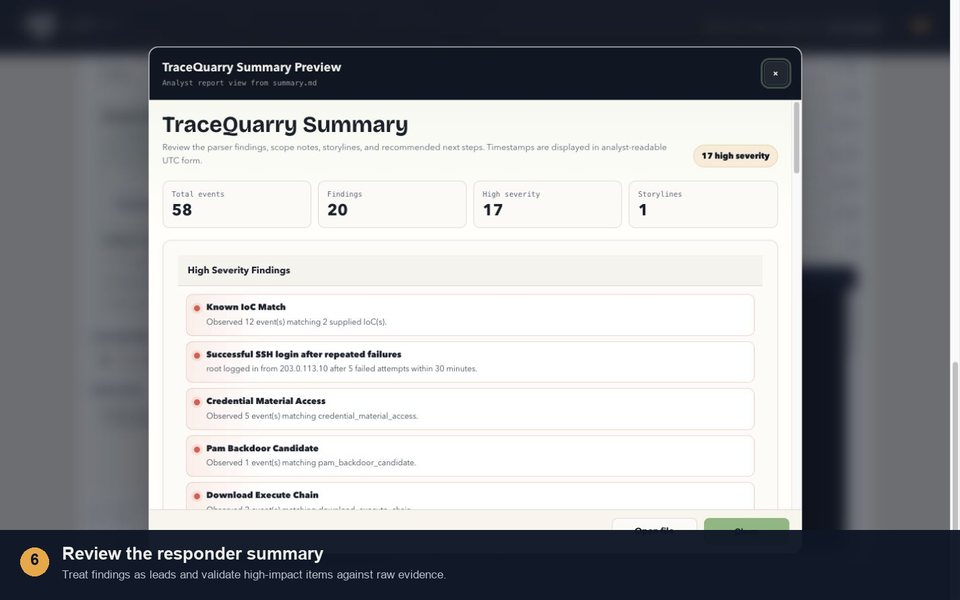
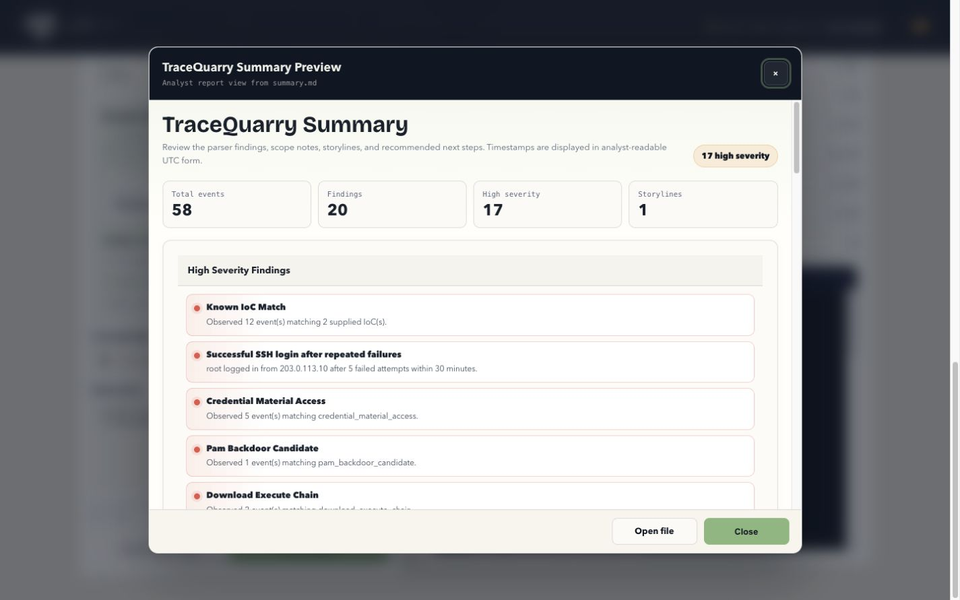
Make README walkthrough cursor-driven (#5)

Changed region(s): [[0.0, 0.87, 1.0, 1.0]]

diff --git a/README.md b/README.md
@@ -28,10 +28,11 @@ Tagline: **Excavate the timeline. Preserve the proof.**
   </a>
 </p>
 
-This 35-second walkthrough uses the bundled synthetic fixture. It demonstrates
-archive intake, investigation-profile selection, evidence-range inspection,
-incident settings and IoCs, Live Run progress, summary review, raw-event
-validation, and analyst annotation. Select the preview to open the
+This 28-second cursor-driven walkthrough uses the bundled synthetic fixture. It
+demonstrates archive intake, investigation-profile selection, evidence-range
+inspection, incident settings and IoCs, Live Run progress, summary review,
+raw-event validation, and analyst annotation through a natural browser workflow.
+Select the preview to open the
 [full-resolution WebM video](docs/media/tracequarry-walkthrough.webm).
 
 ## Why Analysts Use TraceQuarry